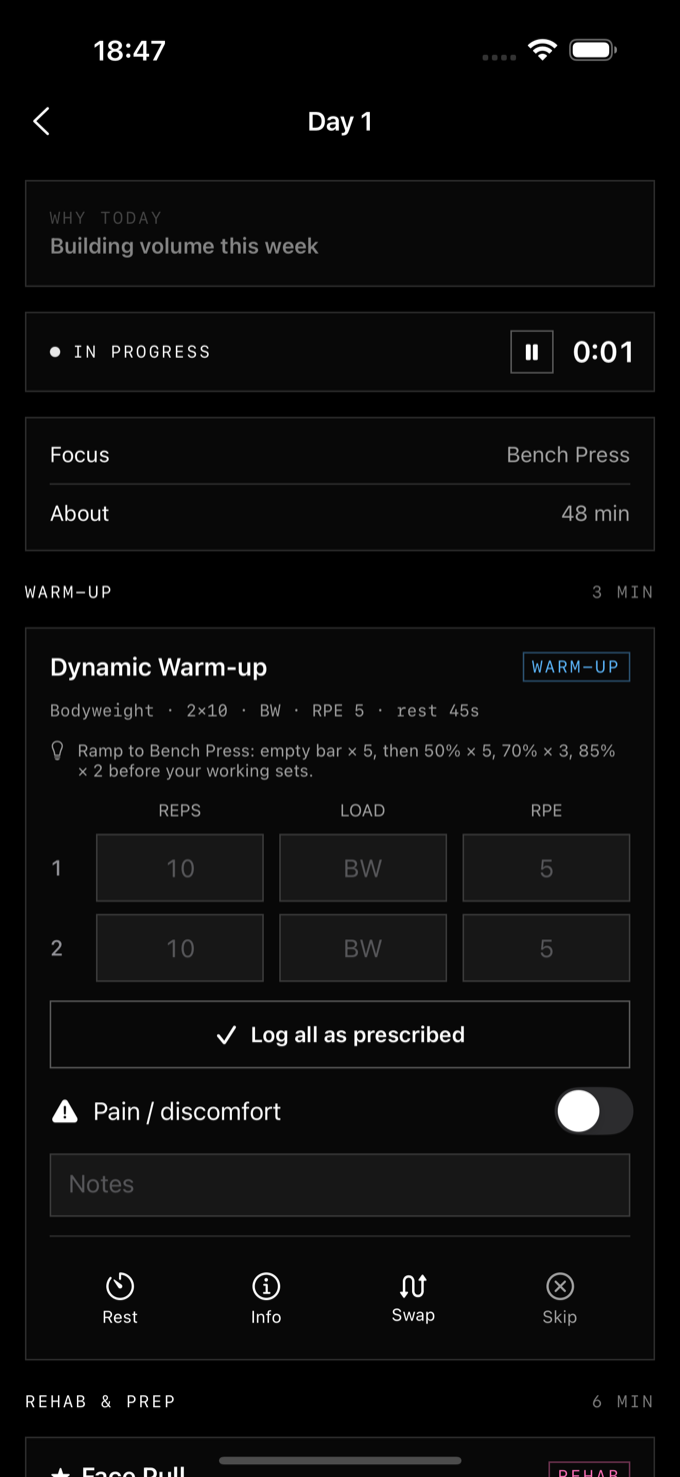
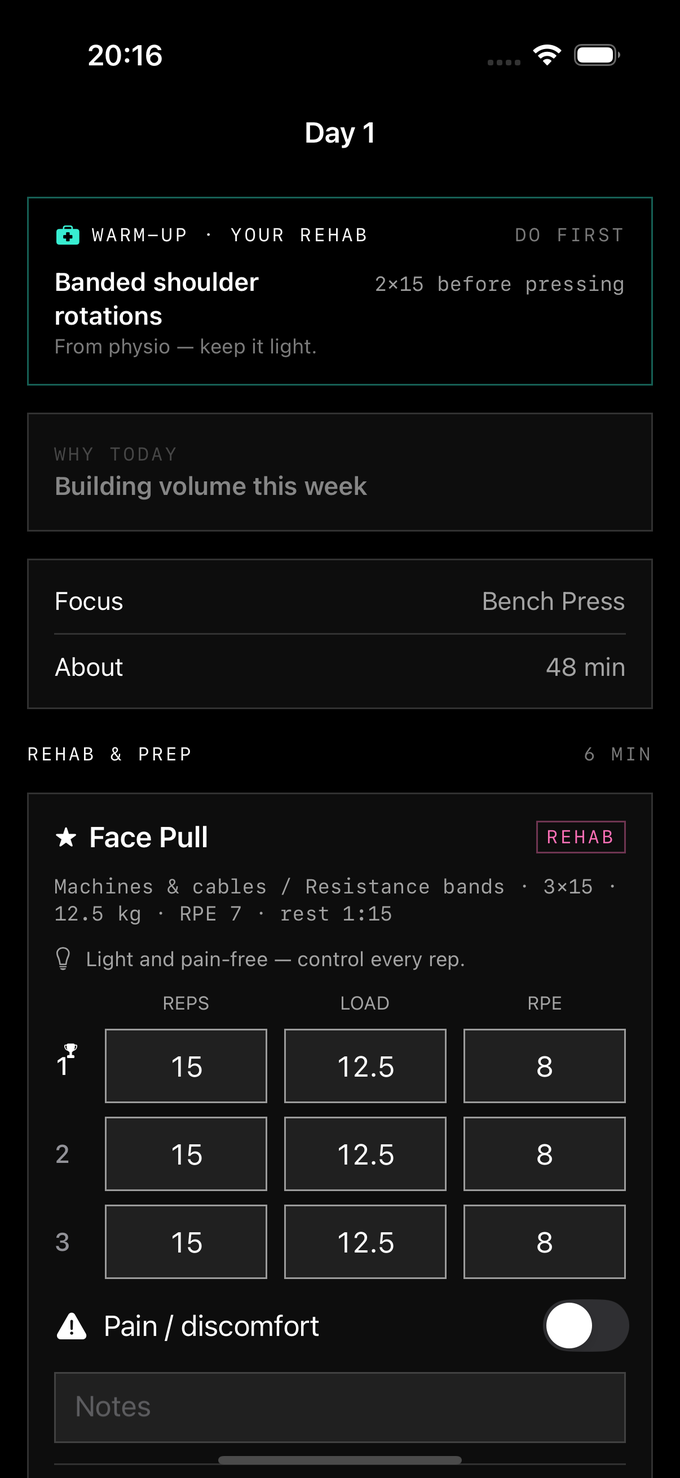
Frame gains a fifth figure; Granite's session figure is finally fresh
FIG 05 -- the belt journey. Every promotion with the mat hours behind it, and what
the next belt costs at the pace you are actually training. Placed against the
paragraph that argues Frame exists to "make the progress you can't feel visible,
so the belts who'd otherwise quit have a reason to come back for the next stripe"
-- that claim had no evidence next to it, and this is the screen that is the
evidence. 94 hours, 84 sessions, six months in, and the whole promotion history
with the hours at each one.

G-SESSION IS NO LONGER A STALE CAPTURE. The GRANITE_SCREEN=session-detail route
used to trap in SwiftUI's environment machinery before the view's body ran, so
Fig 03 kept an older screenshot. Granite's 8b95ae6 ("Full-app debug routing")
fixed it -- Dan's commit, not mine; there was nothing left for me to repair. The
route now lands on a genuinely better figure than the one it replaces, and one
that actually matches its caption: the rehab block marked DO FIRST, "why today",
per-set load and RPE, and the pain toggle inline.

Verified: figures sequential 01-05 on Frame and 01-04 on Granite in source order,
both new images real content (256 distinct tones, not a blank frame), zero dead
references and zero orphans, media/shots 2.7MB.

diff --git a/work-frame.html b/work-frame.html
@@ -268,7 +268,7 @@ body.cursor-on,body.cursor-on a,body.cursor-on button,body.cursor-on summary{cur
       <div class="aud reveal"><div class="who"><h3><span class="b">1</span>For the individual</h3><p>You forget most of what you are taught within days, and you cannot see yourself improving. <em>Frame holds the detail and shows you the proof.</em></p></div><div class="who"><h3><span class="b">2</span>For the room</h3><p>The cheapest growth in jiu-jitsu is the member you already have, kept one more year. <em>A room that can see its own progress is harder to leave.</em></p></div></div>
       <div class="block reveal"><h2>Built against the forgetting curve</h2><p>A single session throws four or five details at you &mdash; the grip, the angle, the small correction that made the sweep finally work &mdash; and within a week almost all of them are gone. Frame is built around that decay rather than despite it. Everything you log comes back to you on a schedule: a few days later, then a week, then a month, timed to land just before you&rsquo;d lose it. There&rsquo;s nothing to revise and no flashcards to sit down with &mdash; the app works out what&rsquo;s about to fade and puts it in front of you. Retention is the product, and it&rsquo;s the one thing a notebook has never done.</p></div>
       <div class="block reveal"><h2>The log you&rsquo;ll actually keep</h2><p>Everyone knows they should keep a training journal. Almost nobody does, because writing one up after an hour of getting choked is the last thing you want to do. Frame removes the friction: talk for thirty seconds in the car &mdash; &ldquo;started in closed guard, hit a scissor sweep to mount, got swept, tapped to an armbar&rdquo; &mdash; and it transcribes on-device and turns it into a structured session you just confirm. Then it reads your game back to you: the positions you live in, the subs you land, the ones that keep catching you, and hands you one or two specific things to hunt next session. A plan, not a feed.</p><div class="pfig"><div class="device"><img src="media/shots/f-game.png" alt="Frame — the same screen at white belt, accent derived from rank" loading="lazy" width="680" height="1478"></div><div class="pcap"><span class="pn">Fig. 02 &middot; Frame &middot; the same screen, one rank down</span><span class="pd">Identical data, white belt. Every accent in the app is derived from the rank you hold &mdash; so the interface tells you where you are before you read a word of it.</span></div></div><div class="pfig flip"><div class="device"><img src="media/shots/f-today.png" alt="Frame — the daily home: log in seconds, recall what's fading" loading="lazy" width="680" height="1478"></div><div class="pcap"><span class="pn">Fig. 03 &middot; Frame &middot; the daily read</span><span class="pd">Log in thirty seconds by voice &mdash; and the same screen brings back what you&rsquo;re about to forget, before you forget it.</span></div></div></div>
-      <div class="block reveal"><h2>The app wears your belt</h2><p>Frame is built for the belt journey and it shows it &mdash; the whole app takes on the colour of your rank and changes with you as you&rsquo;re promoted. It runs offline-first and keeps your training history yours: saved the instant you log it, private, exportable, never sold. The goal underneath every decision is simple and hard: make the progress you can&rsquo;t feel visible, so the belts who&rsquo;d otherwise quit have a reason to come back for the next stripe &mdash; not more features, but more people still on the mat a year from now.</p><div class="pfig"><div class="device"><img src="media/shots/f-leaks.png" alt="Frame — the three holes in your game, ranked from your own logged sessions" loading="lazy" width="680" height="1478"></div><div class="pcap"><span class="pn">Fig. 04 &middot; Frame &middot; the holes, ranked</span><span class="pd">The same data read back as a shortlist: what catches you most, whether it is getting better or worse, and one drill for each &mdash; so a session has a target instead of a vibe.</span></div></div></div>
+      <div class="block reveal"><h2>The app wears your belt</h2><p>Frame is built for the belt journey and it shows it &mdash; the whole app takes on the colour of your rank and changes with you as you&rsquo;re promoted. It runs offline-first and keeps your training history yours: saved the instant you log it, private, exportable, never sold. The goal underneath every decision is simple and hard: make the progress you can&rsquo;t feel visible, so the belts who&rsquo;d otherwise quit have a reason to come back for the next stripe &mdash; not more features, but more people still on the mat a year from now.</p><div class="pfig"><div class="device"><img src="media/shots/f-leaks.png" alt="Frame — the three holes in your game, ranked from your own logged sessions" loading="lazy" width="680" height="1478"></div><div class="pcap"><span class="pn">Fig. 04 &middot; Frame &middot; the holes, ranked</span><span class="pd">The same data read back as a shortlist: what catches you most, whether it is getting better or worse, and one drill for each &mdash; so a session has a target instead of a vibe.</span></div></div><div class="pfig flip"><div class="device"><img src="media/shots/f-journey.png" alt="Frame — every promotion with the mat hours behind it, and what the next belt costs at the current pace" loading="lazy" width="680" height="1478"></div><div class="pcap"><span class="pn">Fig. 05 &middot; Frame &middot; the long view</span><span class="pd">Every promotion with the hours behind it, and what the next one costs at the pace you are actually training &mdash; the progress you cannot feel, made countable.</span></div></div></div>
       <div class="decide reveal">
         <span class="dlabel">The ledger &middot; kept / cut</span>
         <div class="dl">Built by choosing what to leave out.</div>
